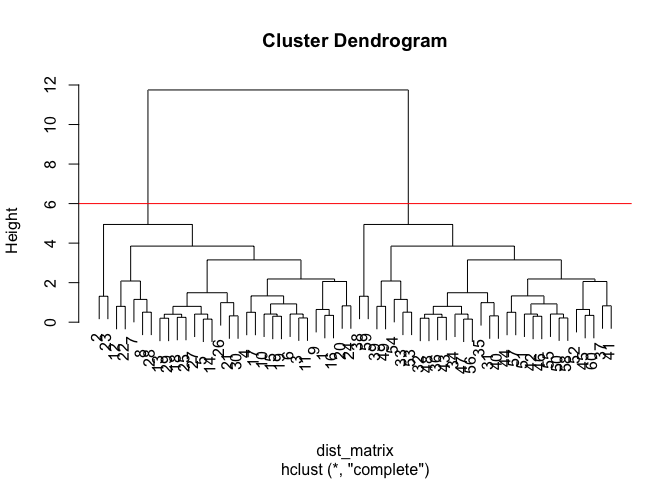
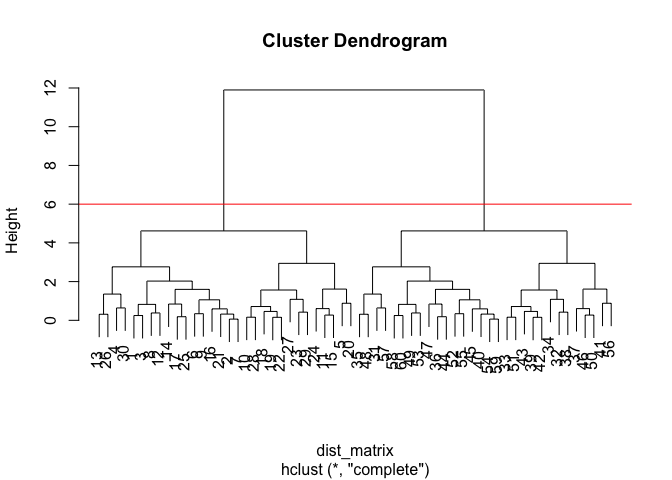
Updated Class08 markdown.

diff --git a/Class08/Class08.md b/Class08/Class08.md
@@ -1,10 +1,10 @@
-Class08
+Introduction to Machine Learning for Bioinformatics
 ================
 Julie Nguyen
 October 24, 2019
 
 K-means Clustering
-------------------
+==================
 
 ``` r
 tmp <- c(rnorm(30,-3), rnorm(30,3))
@@ -23,16 +23,16 @@ k <- kmeans(x, center=2, nstart=20)
 k$cluster
 ```
 
-    ##  [1] 2 2 2 2 2 2 2 2 2 2 2 2 2 2 2 2 2 2 2 2 2 2 2 2 2 2 2 2 2 2 1 1 1 1 1
-    ## [36] 1 1 1 1 1 1 1 1 1 1 1 1 1 1 1 1 1 1 1 1 1 1 1 1 1
+    ##  [1] 1 1 1 1 1 1 1 1 1 1 1 1 1 1 1 1 1 1 1 1 1 1 1 1 1 1 1 1 1 1 2 2 2 2 2
+    ## [36] 2 2 2 2 2 2 2 2 2 2 2 2 2 2 2 2 2 2 2 2 2 2 2 2 2
 
 ``` r
 k$center
 ```
 
     ##           x         y
-    ## 1  2.792520 -3.308383
-    ## 2 -3.308383  2.792520
+    ## 1 -2.944875  3.174754
+    ## 2  3.174754 -2.944875
 
 ``` r
 plot(x, col=k$cluster)
@@ -42,9 +42,9 @@ points(k$centers, col="blue", pch=16)
 ![](Class08_files/figure-markdown_github/unnamed-chunk-5-1.png)
 
 Hierarchical Clustering
------------------------
+=======================
 
-The hclust() function requires a distance matrix as input. You can get this from the dist() function.
+The `hclust()` function requires a distance matrix as input. You can get this from the `dist()` function.
 
 ``` r
 # First we need to calculate point (dis)similarity
@@ -139,7 +139,7 @@ table(grps)
 
     ## grps
     ##  1  2  3 
-    ## 69 46 35
+    ## 53 47 50
 
 Cross-tabulate (i.e. compare our clustering results with the known answer.)
 
@@ -149,12 +149,12 @@ table(grps, col)
 
     ##     col
     ## grps c1 c2 c3
-    ##    1 50  6 13
-    ##    2  0 44  2
-    ##    3  0  0 35
+    ##    1  3 48  2
+    ##    2 46  0  1
+    ##    3  1  2 47
 
 Principal Component Analysis
-----------------------------
+============================
 
 ``` r
 mydata <- read.csv("https://tinyurl.com/expression-CSV",
@@ -178,7 +178,7 @@ nrow(mydata)
 
     ## [1] 100
 
-Let's do PCA with the **prcomp()** function.
+Let's do PCA with the `prcomp()` function.
 
 ``` r
 pca <- prcomp(t(mydata), scale=TRUE)
@@ -238,8 +238,8 @@ plot(pca$x[,1], pca$x[, 2],
 
 ![](Class08_files/figure-markdown_github/unnamed-chunk-17-2.png)
 
-Hands-on Section
-----------------
+PCA of UK food data
+===================
 
 ``` r
 x <- read.csv("UK_foods.csv")
